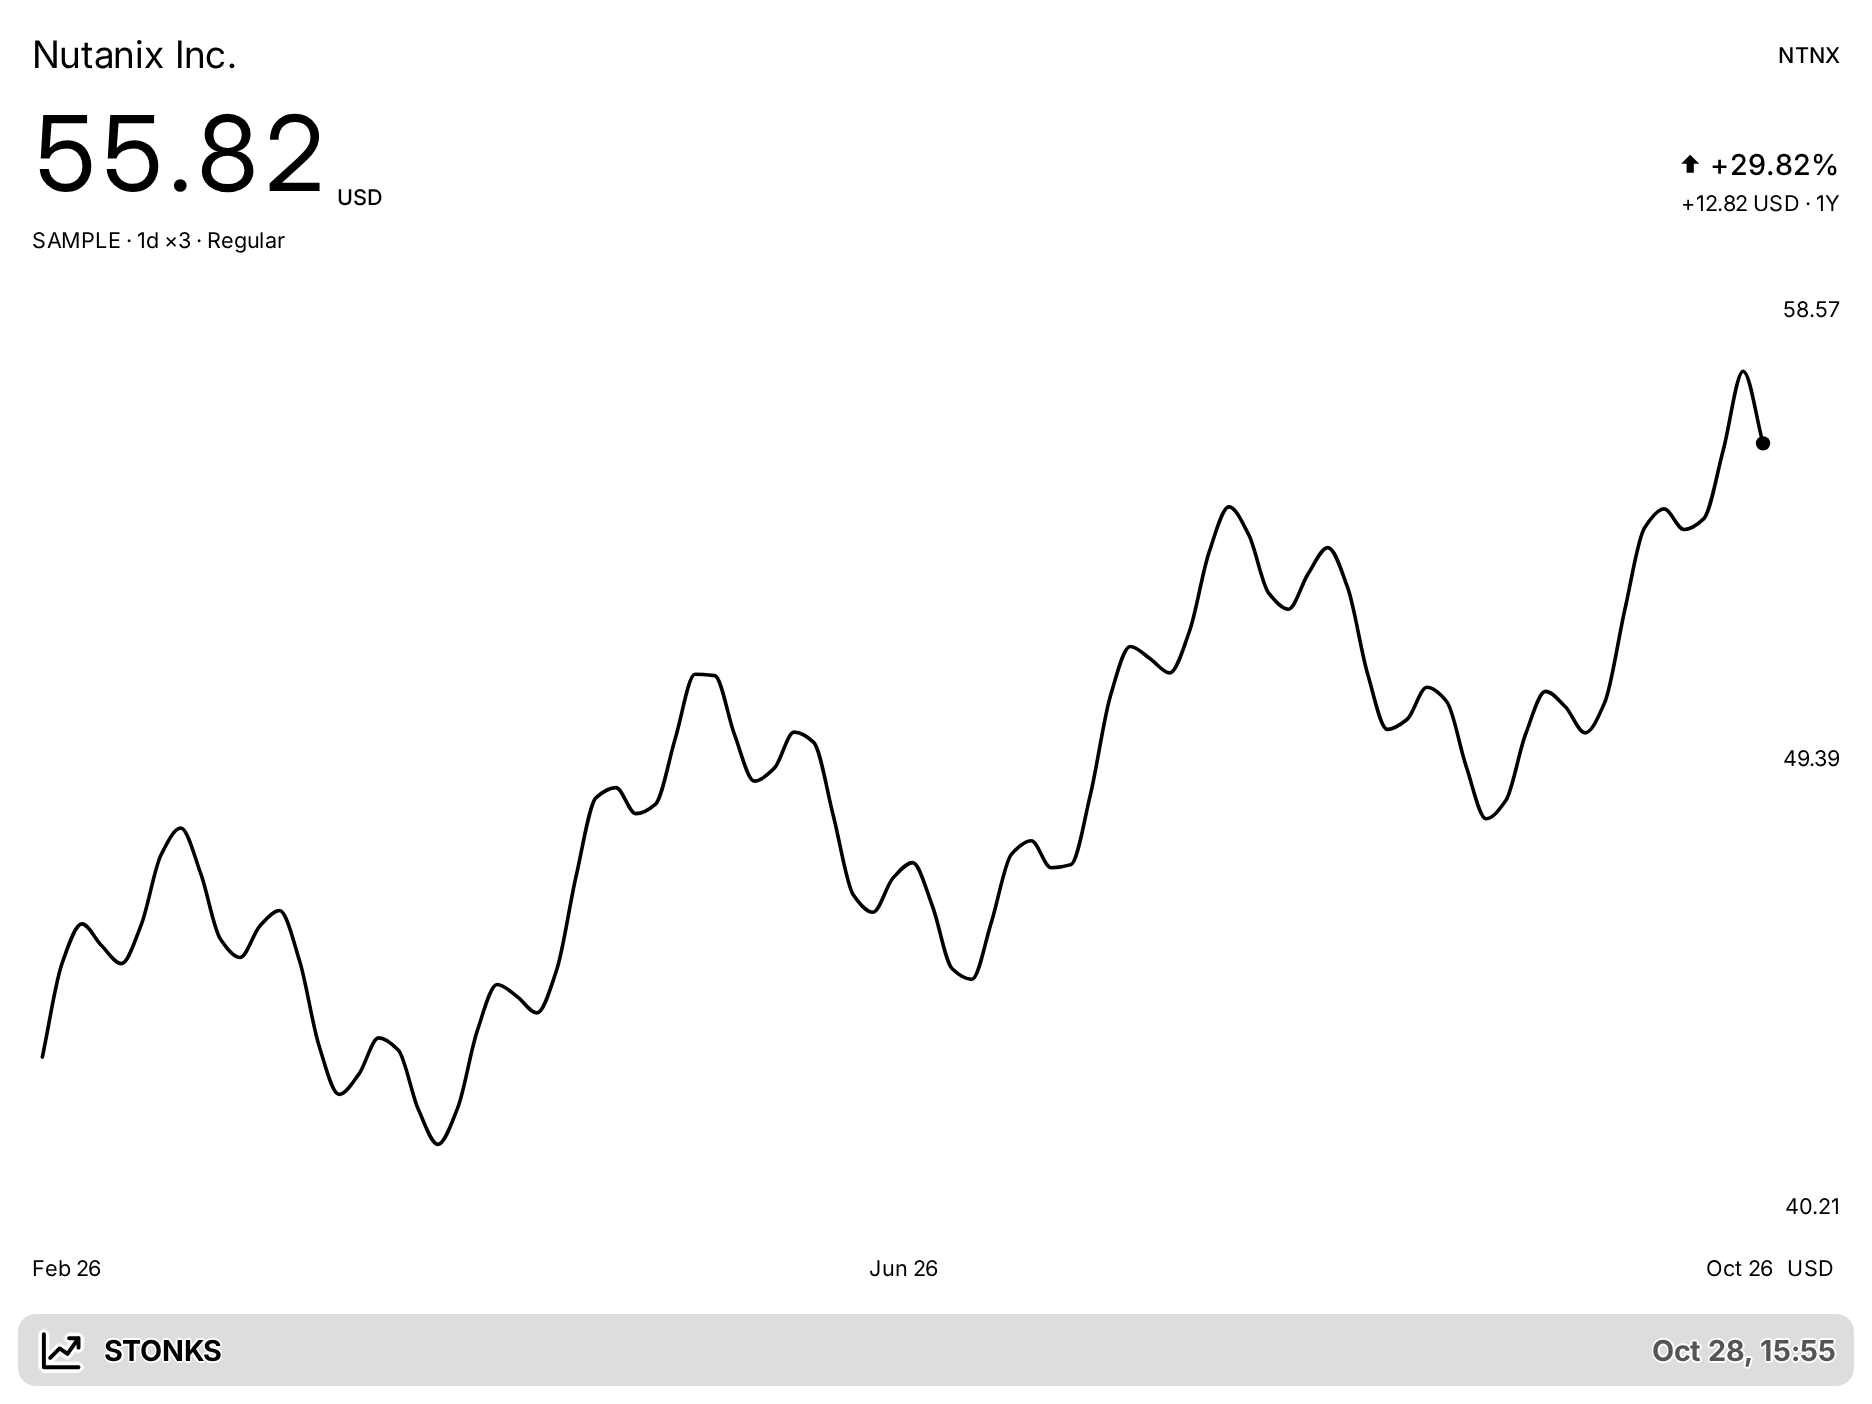
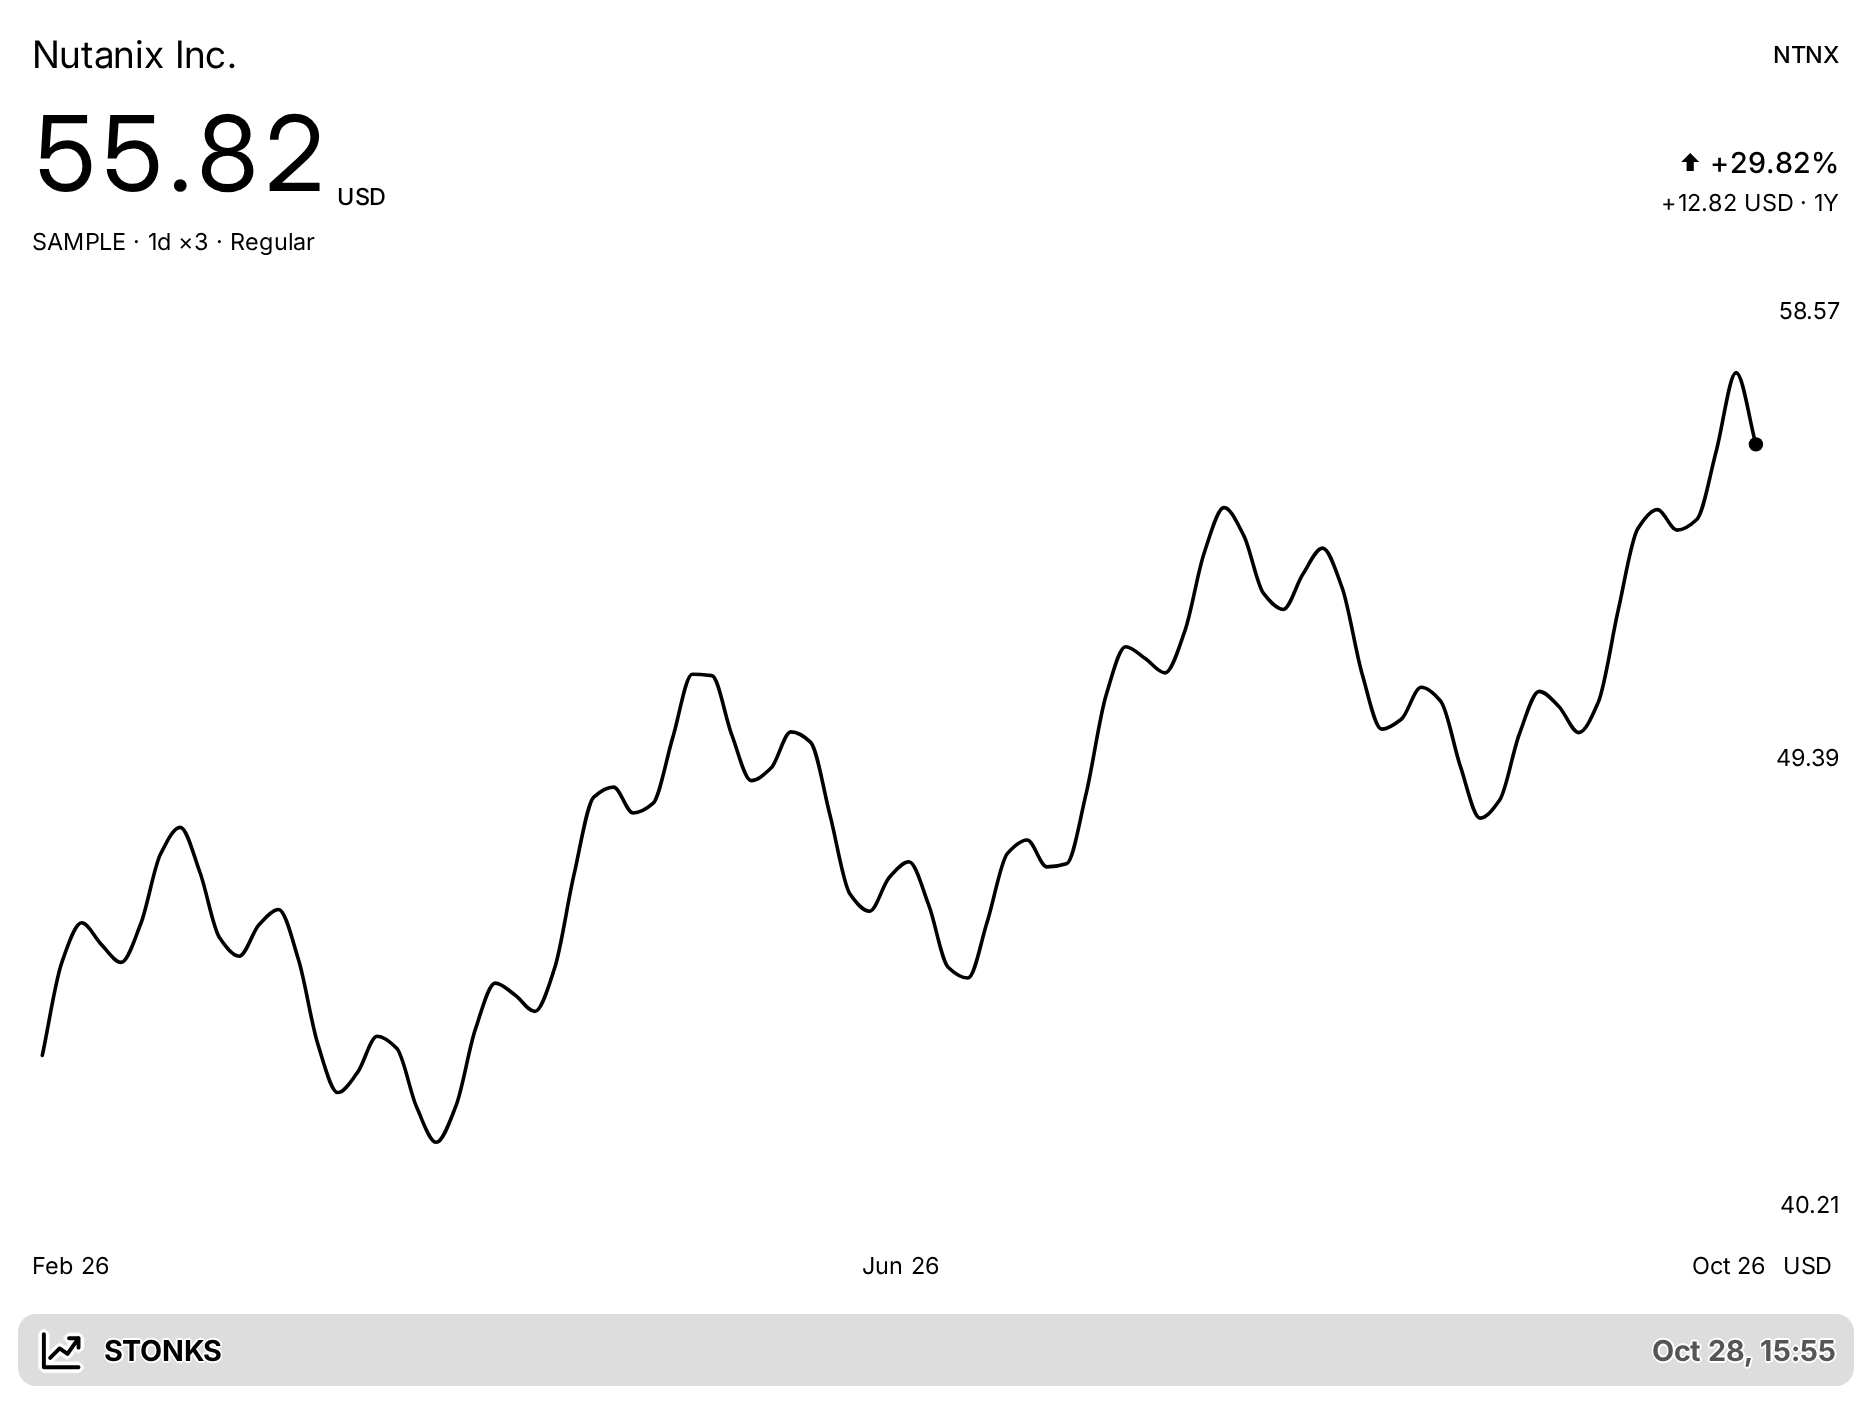
Use native Framework typography and boolean chart settings

diff --git a/TRMNL/src/transform.js b/TRMNL/src/transform.js
@@ -62,8 +62,8 @@ function settings(input, selected = selection(input)) {
     chartType: choose(f.chartType, ['line', 'bars', 'candles'], 'line'),
     locale: choose(f.locale, Object.keys(LOCALES), 'en'),
     lineType: choose(f.lineType, ['0', '1', '2'], '2'),
-    volume: f.showVolume === 'show',
-    reference: f.showReference === 'show',
+    volume: f.showVolume === true || f.showVolume === 'true' || f.showVolume === 'show',
+    reference: f.showReference === true || f.showReference === 'true' || f.showReference === 'show',
     precision: choose(f.precision, ['auto', '0', '2', '4', '6'], 'auto')
   };
 }

diff --git a/TRMNL/README.md b/TRMNL/README.md
@@ -49,11 +49,13 @@ The existing private installation can also be updated through TRMNL MCP. Keep MC
 | Date range | 1D/minute, 1M/30 minutes, 3M/hour, 1Y/day, 5Y/week, all time/month |
 | Chart type | Line, OHLC bars or candles |
 | Line style and width | Straight, stepped or smooth; 1–5 px strokes |
-| Grid, volume, baseline | Show/hide; volume requires provider data |
+| Grid, volume, baseline | On/off checkboxes; volume requires provider data |
 | Extended hours | Available intraday pre/post-market bars |
 | Language | English, German, French, Spanish, Italian or Polish |
-| Heading and label size | Small/normal/large heading; 8–16 px supporting text, default 12 px |
+| Heading and label size | Small/normal/large heading; native Normal/Large supporting text |
 | Decimal places | Automatic, 0, 2, 4 or 6 decimals |
+
+Existing settings retain their keys. Saved Show/Hide choices remain supported alongside boolean values. Saved numeric label sizes of 12 or below use Normal; larger values use Large. Choose a preset in settings to save the new value. Tickers, currency badges and stale badges use their native label sizes.
 
 Examples: `NTNX`, `VWCE.DE`, `%5ESTOXX50E`, `BTC-USD`, `EURUSD=X`. Some instruments lack particular ranges, FX pairs, OHLC or volume.
 
@@ -105,7 +107,7 @@ TRMNL_BROWSER=chromium node scripts/preview.cjs
 
 These packages are development tools only. The test suite covers market data, FX, saved-state isolation, failures, chart geometry, locales and Liquid rendering. GitHub Actions runs the same checks on `main` pushes and pull requests.
 
-Open `dist/preview/index.html` for sample previews across four device profiles, both orientations, all four layouts and data/customization scenarios. The script uses the pinned framework and actual fonts, checks computed text sizes, bounds, overlapping text, chart endpoints and palette colors, and caches assets under `.cache/`. Native B/W/R/Y server thumbnails are grayscale; physical ink and dithering require a device check.
+Open `dist/preview/index.html` for sample previews across four device profiles, both orientations, all four layouts and data/customization scenarios. The script runs the pinned Framework JavaScript, including native clamping, with actual fonts, checks computed text sizes, bounds, overlapping text, chart endpoints and palette colors, and caches assets under `.cache/`. Native B/W/R/Y server thumbnails are grayscale; physical ink and dithering require a device check.
 
 The repository previews are lossless WebP exports of those PNGs. To update one, keep the sample label and existing media filenames:
 
@@ -117,7 +119,7 @@ magick dist/preview/og-landscape-full-fresh.png -define webp:lossless=true TRMNL
 
 The publishing page also shows automated advisory hints. Each layout contains one native `layout` and renders the shared `title_bar` after it. Shared holds reusable components and CSS, so a layout-presence hint on Shared can be reviewed against the rendered views.
 
-Chart positions use SVG coordinates; the templates contain no inline `style` attributes. The scoped stylesheet supplies chart palette tokens, the adjustable label size and text fitting for narrow slots. Layout, spacing and text elements use Framework classes.
+Chart positions use SVG coordinates; the templates contain no inline `style` attributes. The scoped stylesheet supplies chart palette tokens and title-bar fitting for narrow slots. Company names and tickers use native `data-clamp="1"`; chart labels and supporting text use native `description` size classes. Layout, spacing and text elements use Framework classes.
 
 Stock data is already fetched through the polling URL. Serverless fetches only the exchange-rate pairs required for optional currency conversion; those pairs depend on the currency returned in the stock response. Native-currency charts make no Serverless network requests. FX requests share a 3.8-second deadline, have no retries and preserve a matching saved chart if they fail. TRMNL's [Serverless documentation](https://help.trmnl.com/en/articles/14130649-serverless) permits network requests within its five-second runtime.
 
